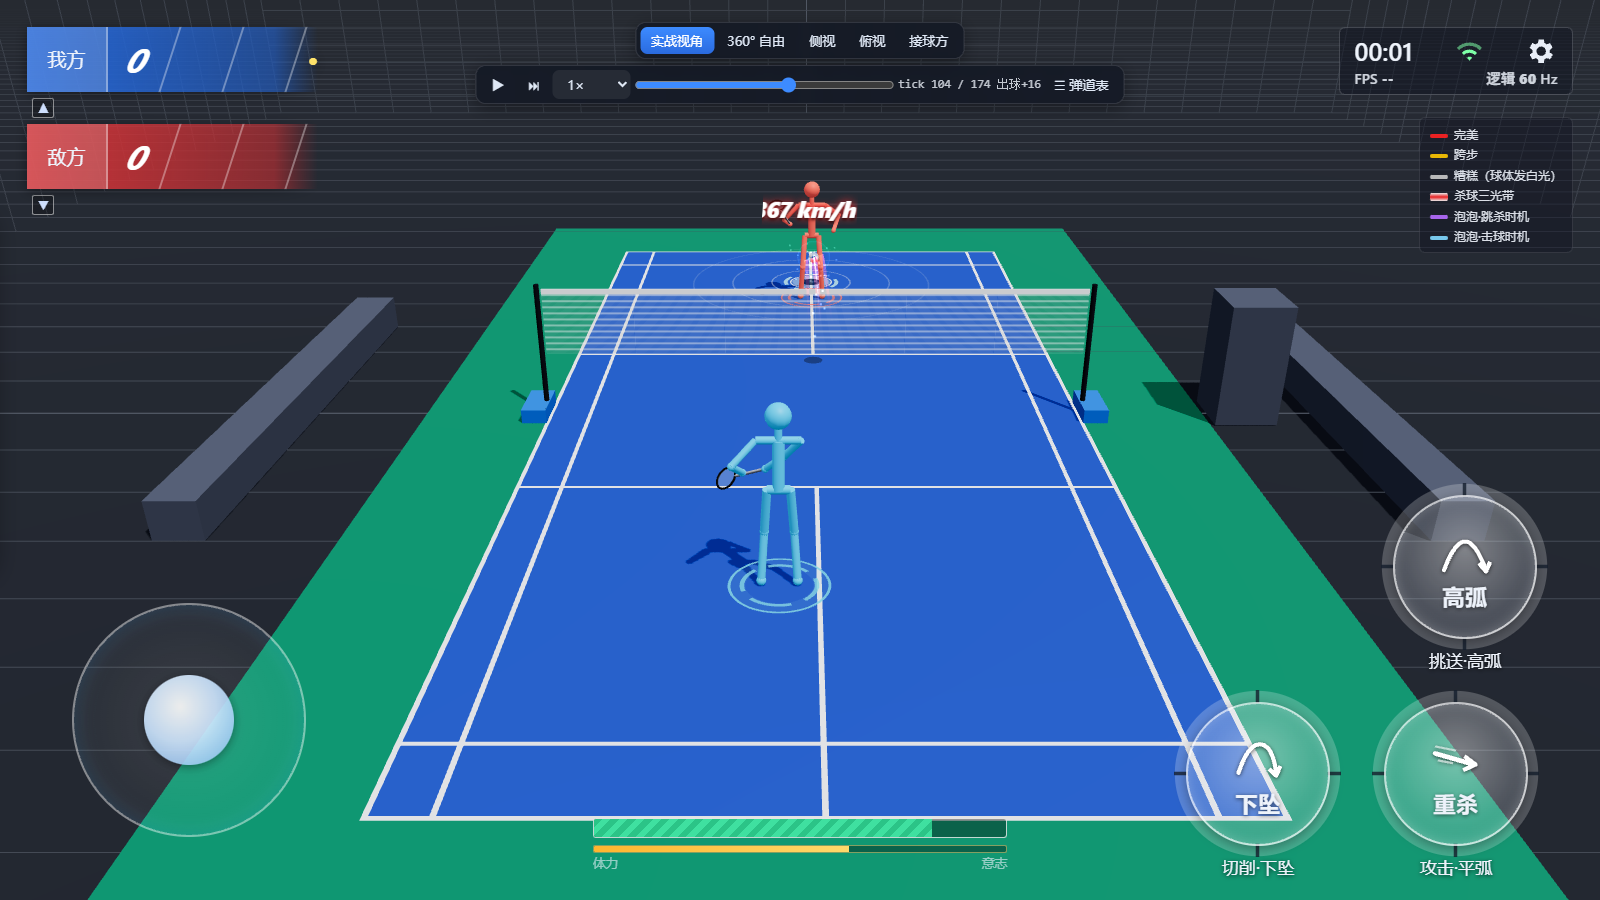
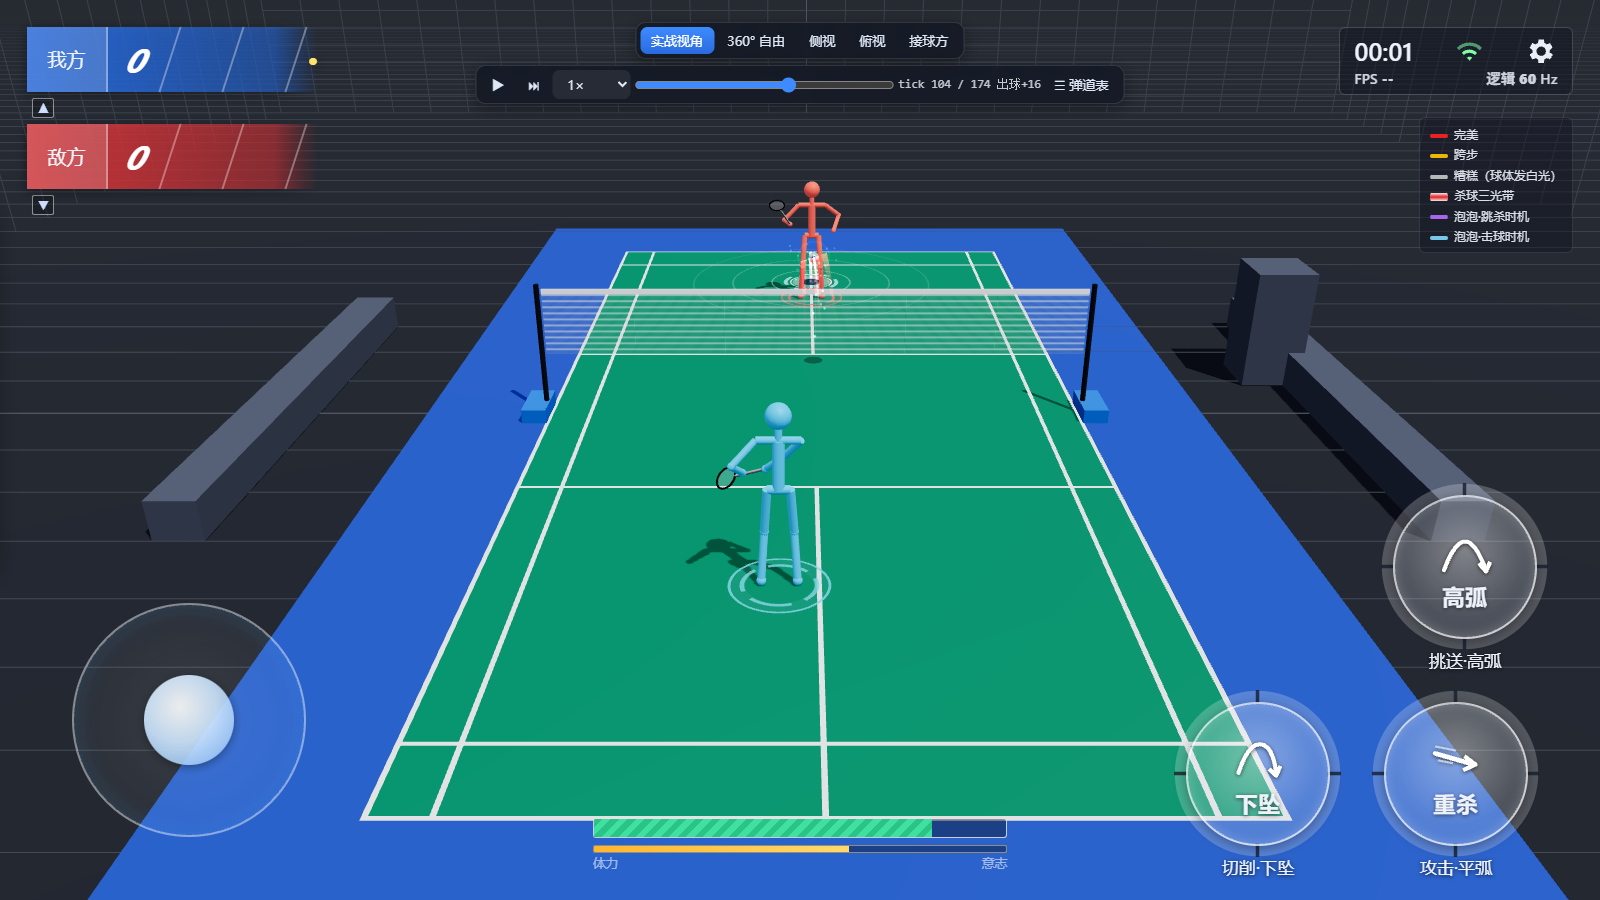
sim viewer: 主球场改绿色、外围改蓝色

diff --git a/sim/viewer/main.js b/sim/viewer/main.js
@@ -43,9 +43,9 @@ scene.add(sun);
 // 球场：蓝色场地 + 绿色可移动区（9.0×16.4）+ 全套白线
 const HW_D = 3.05, HW_S = data.halfWidth / 100, HL = data.halfLength / 100, NET = data.netHeight / 100;
 {
-  const surround = new THREE.Mesh(new THREE.PlaneGeometry(9.0, 16.4), new THREE.MeshStandardMaterial({ color: 0x1f8f68, roughness: .85 }));
+  const surround = new THREE.Mesh(new THREE.PlaneGeometry(9.0, 16.4), new THREE.MeshStandardMaterial({ color: 0x2f62cc, roughness: .85 }));
   surround.rotation.x = -Math.PI / 2; surround.receiveShadow = true; scene.add(surround);
-  const court = new THREE.Mesh(new THREE.PlaneGeometry(HW_D * 2 + 0.04, HL * 2 + 0.04), new THREE.MeshStandardMaterial({ color: 0x2f62cc, roughness: .7 }));
+  const court = new THREE.Mesh(new THREE.PlaneGeometry(HW_D * 2 + 0.04, HL * 2 + 0.04), new THREE.MeshStandardMaterial({ color: 0x1f8f68, roughness: .7 }));
   court.rotation.x = -Math.PI / 2; court.position.y = 0.002; court.receiveShadow = true; scene.add(court);
   const lineMat = new THREE.MeshBasicMaterial({ color: 0xf4f7ff });
   const W = 0.045;
